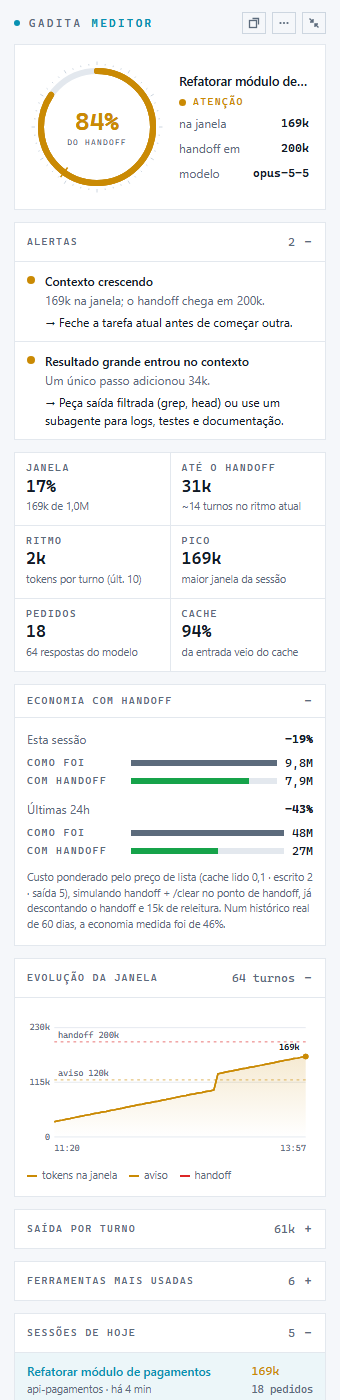
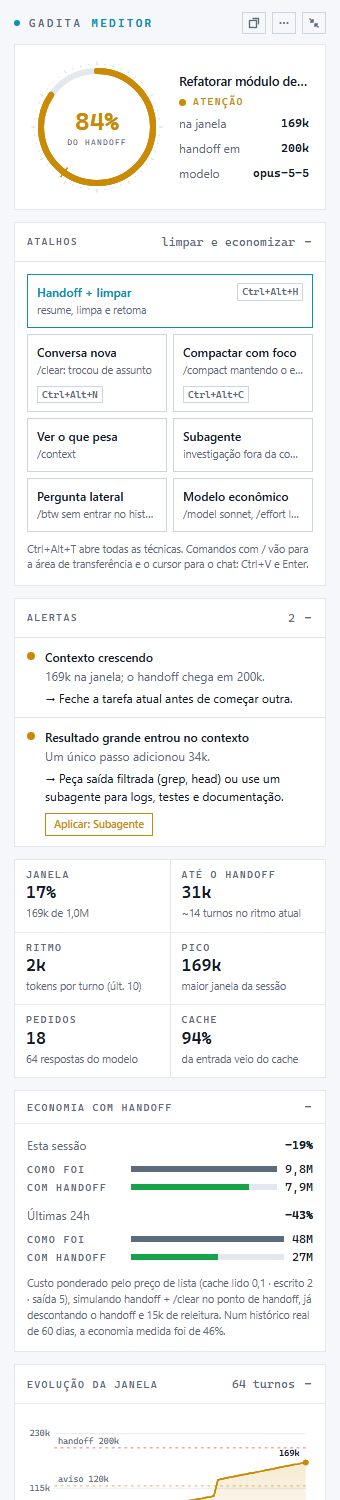
3.1.0: atalhos que aplicam as técnicas de economia
Ctrl+Alt+H faz handoff e abre a conversa nova sozinho quando o handoff
é salvo; Ctrl+Alt+N abre conversa nova (/clear); Ctrl+Alt+C compacta com
foco; Ctrl+Alt+T lista todas as técnicas. Painel ganha seção Atalhos e
botão Aplicar em cada alerta.

diff --git a/extension.js b/extension.js
@@ -170,7 +170,7 @@ function alertas(s, lim) {
   if (atual >= lim.handoff) {
     add('vermelho', 'handoff', 'Hora do handoff',
       `Cada mensagem reenvia ${k(atual)} de histórico. A qualidade também cai com a janela cheia.`,
-      'Deixe o Claude gerar o handoff e digite /clear.');
+      'Ctrl+Alt+H: handoff + limpar, e a sessão nova já retoma de onde parou.');
   } else if (atual >= lim.aviso) {
     add('amarelo', 'aviso', 'Contexto crescendo',
       `${k(atual)} na janela; o handoff chega em ${k(lim.handoff)}.`,
@@ -242,6 +242,12 @@ function alertas(s, lim) {
       'Para tarefas simples, /model sonnet ou /effort menor.');
   }
 
+  // Técnica que resolve cada alerta (botão "Aplicar" no painel e na notificação).
+  const APLICAR = {
+    handoff: 'handoffLimpar', 'cache-frio': 'handoffLimpar', pia: 'handoffLimpar', compactacao: 'handoffLimpar',
+    correcoes: 'conversaNova', 'saida-grande': 'subagente', exploracao: 'subagente', base: 'contexto', modelo: 'modelo',
+  };
+  for (const x of a) x.aplicar = APLICAR[x.id] || null;
   const ordem = { vermelho: 0, amarelo: 1, verde: 2 };
   return a.sort((x, y) => ordem[x.nivel] - ordem[y.nivel]);
 }
@@ -263,6 +269,7 @@ function config() {
     janela: c.get('janela') || 0, // 0 = automático
     notificar: c.get('notificar') !== false,
     abrirAoIniciar: c.get('abrirAoIniciar') || 'nada',
+    limparAposHandoff: c.get('limparAposHandoff') !== false,
   };
 }
 
@@ -425,6 +432,7 @@ class Paineis {
     } else if (m.tipo === 'flutuar') this.abrirAba(true);
     else if (m.tipo === 'aba') this.abrirAba(false);
     else if (m.tipo === 'menu') vscode.commands.executeCommand('gaditaMeditor.menu');
+    else if (m.tipo === 'tecnica' && TECNICAS[m.id]) TECNICAS[m.id].fn();
     else if (m.tipo === 'kit') vscode.env.openExternal(vscode.Uri.parse(`${REPO}#kit-de-handoff-opcional`));
   }
 }
@@ -432,8 +440,124 @@ class Paineis {
 const REPO = 'https://github.com/rodrigogadita/gadita-meditor';
 
 async function copiarHandoff() {
-  await vscode.env.clipboard.writeText('/handoff');
-  vscode.window.showInformationMessage('"/handoff" copiado. Cole no chat do Claude e depois digite /clear.');
+  await levarAoChat('/handoff');
+}
+
+// ---------- técnicas: atalhos que aplicam a limpeza ----------
+// Comandos da extensão oficial do Claude Code para VS Code (anthropic.claude-code).
+const CLAUDE_NOVA = 'claude-vscode.newConversation';
+const CLAUDE_FOCO = 'claude-vscode.focus';
+let comandosClaude = null;
+
+async function temComando(id) {
+  if (!comandosClaude) comandosClaude = new Set(await vscode.commands.getCommands(true));
+  return comandosClaude.has(id);
+}
+
+// Nenhuma extensão pode digitar no chat do Claude: copia o comando e põe o cursor na caixa de mensagem.
+async function levarAoChat(texto, dica) {
+  await vscode.env.clipboard.writeText(texto);
+  if (await temComando(CLAUDE_FOCO)) {
+    try { await vscode.commands.executeCommand(CLAUDE_FOCO); } catch { /* chat fechado */ }
+  }
+  vscode.window.setStatusBarMessage(`$(clippy) ${dica || `"${texto.trim()}" pronto: Ctrl+V e Enter no chat do Claude`}`, 10000);
+}
+
+// Equivale ao /clear: abre uma conversa limpa (a anterior continua salva e pode ser retomada).
+async function conversaNova() {
+  if (await temComando(CLAUDE_NOVA)) {
+    await vscode.commands.executeCommand(CLAUDE_NOVA);
+    vscode.window.setStatusBarMessage('$(check) Conversa nova aberta. A anterior continua salva.', 8000);
+    return true;
+  }
+  await levarAoChat('/clear', '"/clear" pronto: cole no Claude Code e envie');
+  return false;
+}
+
+function handoffNovo(desde) {
+  let maisNovo = null, mt = 0;
+  try {
+    for (const n of fs.readdirSync(HANDOFFS)) {
+      if (!n.endsWith('.md') || n.endsWith('.usado.md')) continue;
+      const m = fs.statSync(path.join(HANDOFFS, n)).mtimeMs;
+      if (m > desde - 1000 && m > mt) { mt = m; maisNovo = path.join(HANDOFFS, n); }
+    }
+  } catch { /* pasta ainda não existe */ }
+  return maisNovo;
+}
+
+// Handoff + limpar: pede o handoff; quando o arquivo aparece e a resposta termina, abre a conversa nova.
+let esperaHandoff = null;
+async function handoffLimpar() {
+  const inicio = Date.now();
+  const s = mon.corrente();
+  await levarAoChat('/handoff', 'Ctrl+V e Enter no chat. Quando o handoff for salvo, eu abro a conversa nova.');
+  if (esperaHandoff) clearInterval(esperaHandoff);
+  let achado = null;
+  esperaHandoff = setInterval(async () => {
+    if (Date.now() - inicio > 15 * 60000) { clearInterval(esperaHandoff); esperaHandoff = null; return; }
+    achado = achado || handoffNovo(inicio);
+    if (!achado) return;
+    // Espera a resposta do Claude terminar (registro da sessão parado há 5s) antes de limpar.
+    if (s) {
+      try { if (Date.now() - fs.statSync(s.arquivo).mtimeMs < 5000) return; } catch { /* segue */ }
+    }
+    clearInterval(esperaHandoff); esperaHandoff = null;
+    const kit = fs.existsSync(path.join(GUARDA, 'hook.py'));
+    const retomar = async () => {
+      const limpou = await conversaNova();
+      if (!kit && limpou) {
+        await levarAoChat(`Leia ${achado.replace(/\\/g, '/')} e continue do próximo passo.`,
+          'Pedido de retomada pronto: Ctrl+V e Enter na conversa nova.');
+      }
+    };
+    if (config().limparAposHandoff) {
+      await retomar();
+      vscode.window.showInformationMessage(`Handoff salvo (${path.basename(achado)}) e conversa nova aberta.${kit ? ' O contexto volta sozinho.' : ''}`);
+    } else {
+      const r = await vscode.window.showInformationMessage(`Handoff salvo: ${path.basename(achado)}.`, 'Abrir conversa nova', 'Ver handoff');
+      if (r === 'Abrir conversa nova') await retomar();
+      if (r === 'Ver handoff') vscode.window.showTextDocument(vscode.Uri.file(achado));
+    }
+  }, 1500);
+}
+
+async function compactarComFoco() {
+  const foco = await vscode.window.showInputBox({
+    title: 'Compactar com foco',
+    prompt: 'O que precisa sobreviver ao resumo? (compactar lê a conversa inteira: prefira handoff + limpar quando for recomeçar)',
+    placeHolder: 'ex.: decisões do módulo de pagamentos, arquivos alterados e testes pendentes',
+  });
+  if (foco === undefined) return;
+  await levarAoChat(`/compact ${foco}`.trim());
+}
+
+async function modeloEconomico() {
+  const r = await vscode.window.showQuickPick([
+    { label: '/model sonnet', description: 'a maior parte do código, custa menos que o Opus' },
+    { label: '/model haiku', description: 'tarefas bem simples e repetitivas' },
+    { label: '/effort low', description: 'menos raciocínio no mesmo modelo' },
+    { label: '/model opus', description: 'voltar ao Opus para arquitetura e problemas difíceis' },
+  ], { title: 'Modelo e esforço sob medida' });
+  if (r) await levarAoChat(r.label);
+}
+
+const TECNICAS = {
+  handoffLimpar: { fn: handoffLimpar, icone: 'sparkle', nome: 'Handoff + limpar', tecla: 'Ctrl+Alt+H', desc: 'resume, limpa e retoma na conversa nova' },
+  conversaNova: { fn: conversaNova, icone: 'clear-all', nome: 'Conversa nova (/clear)', tecla: 'Ctrl+Alt+N', desc: 'trocou de assunto: comece limpo' },
+  compactar: { fn: compactarComFoco, icone: 'fold', nome: 'Compactar com foco', tecla: 'Ctrl+Alt+C', desc: 'resume mantendo só o que você escolher' },
+  contexto: { fn: () => levarAoChat('/context'), icone: 'pie-chart', nome: 'Ver o que pesa (/context)', tecla: '', desc: 'sistema, memória, ferramentas e conversa' },
+  subagente: { fn: () => levarAoChat('Use um subagente para investigar: '), icone: 'hubot', nome: 'Investigar com subagente', tecla: '', desc: 'o volume fica fora da conversa principal' },
+  lateral: { fn: () => levarAoChat('/btw '), icone: 'comment', nome: 'Pergunta lateral (/btw)', tecla: '', desc: 'a resposta não entra no histórico' },
+  modelo: { fn: modeloEconomico, icone: 'dashboard', nome: 'Modelo econômico', tecla: '', desc: '/model sonnet, /effort low' },
+};
+
+async function tecnicas() {
+  const itens = Object.entries(TECNICAS).map(([id, t]) => ({
+    id, label: `$(${t.icone}) ${t.nome}`, description: t.tecla, detail: t.desc,
+  }));
+  const r = await vscode.window.showQuickPick(itens, { title: 'Gadita Meditor · técnicas que economizam', placeHolder: 'O que aplicar agora?' });
+  if (r) TECNICAS[r.id].fn();
 }
 
 let mon, paineis, barra, atualizarTudo;
@@ -461,8 +585,10 @@ function atualizarBarra() {
     const chave = `${s.id}:${a.id}`;
     if (mon.notificados.has(chave)) continue;
     mon.notificados.add(chave);
-    vscode.window.showWarningMessage(`Gadita Meditor · ${a.titulo}. ${a.acao}`, 'Copiar /handoff', 'Abrir flutuante').then((r) => {
-      if (r === 'Copiar /handoff') copiarHandoff();
+    const t = a.aplicar && TECNICAS[a.aplicar];
+    const botoes = t ? [t.nome, 'Abrir flutuante'] : ['Abrir flutuante'];
+    vscode.window.showWarningMessage(`Gadita Meditor · ${a.titulo}. ${a.acao}`, ...botoes).then((r) => {
+      if (t && r === t.nome) t.fn();
       if (r === 'Abrir flutuante') paineis.abrirAba(true);
     });
   }
@@ -473,8 +599,9 @@ async function menu() {
     { label: '$(multiple-windows) Janela flutuante', description: 'sempre por cima, arraste para onde quiser', id: 'flutuar' },
     { label: '$(split-horizontal) Abrir como aba', description: 'arraste a aba para qualquer lado do editor', id: 'aba' },
     { label: '$(layout-sidebar-left) Barra lateral', description: 'arraste o ícone para a direita para fixar lá', id: 'lateral' },
+    { label: 'técnicas', kind: vscode.QuickPickItemKind.Separator },
+    ...Object.entries(TECNICAS).map(([id, t]) => ({ label: `$(${t.icone}) ${t.nome}`, description: t.tecla, id: `tec:${id}` })),
     { label: '', kind: vscode.QuickPickItemKind.Separator },
-    { label: '$(copy) Copiar /handoff', id: 'handoff' },
     { label: '$(folder-opened) Pasta de handoffs', id: 'pasta' },
     { label: '$(gear) Configurações', id: 'config' },
   ];
@@ -483,7 +610,7 @@ async function menu() {
   if (r.id === 'flutuar') paineis.abrirAba(true);
   else if (r.id === 'aba') paineis.abrirAba(false);
   else if (r.id === 'lateral') vscode.commands.executeCommand('workbench.view.extension.gaditaMeditor');
-  else if (r.id === 'handoff') copiarHandoff();
+  else if (r.id.startsWith('tec:')) TECNICAS[r.id.slice(4)].fn();
   else if (r.id === 'pasta') vscode.commands.executeCommand('gaditaMeditor.pastaHandoffs');
   else if (r.id === 'config') vscode.commands.executeCommand('workbench.action.openSettings', 'gaditaMeditor');
 }
@@ -505,6 +632,14 @@ function activate(ctx) {
     vscode.commands.registerCommand('gaditaMeditor.flutuar', () => paineis.abrirAba(true)),
     vscode.commands.registerCommand('gaditaMeditor.aba', () => paineis.abrirAba(false)),
     vscode.commands.registerCommand('gaditaMeditor.copiarHandoff', copiarHandoff),
+    vscode.commands.registerCommand('gaditaMeditor.tecnicas', tecnicas),
+    vscode.commands.registerCommand('gaditaMeditor.handoffLimpar', handoffLimpar),
+    vscode.commands.registerCommand('gaditaMeditor.conversaNova', conversaNova),
+    vscode.commands.registerCommand('gaditaMeditor.compactar', compactarComFoco),
+    vscode.commands.registerCommand('gaditaMeditor.contexto', TECNICAS.contexto.fn),
+    vscode.commands.registerCommand('gaditaMeditor.subagente', TECNICAS.subagente.fn),
+    vscode.commands.registerCommand('gaditaMeditor.lateral', TECNICAS.lateral.fn),
+    vscode.commands.registerCommand('gaditaMeditor.modelo', modeloEconomico),
     vscode.commands.registerCommand('gaditaMeditor.atualizar', () => { mon.varrer(); atualizarTudo(); }),
     vscode.commands.registerCommand('gaditaMeditor.pastaHandoffs', () => {
       fs.mkdirSync(HANDOFFS, { recursive: true });

diff --git a/media/painel.js b/media/painel.js
@@ -2,7 +2,7 @@
   const vscode = acquireVsCodeApi();
   const salvo = vscode.getState() || {};
   let compacto = !!salvo.compacto;
-  const abertos = Object.assign({ alertas: true, economia: true, evolucao: true, turnos: false, ferramentas: false, sessoes: true, acoes: true, dicas: false }, salvo.abertos);
+  const abertos = Object.assign({ alertas: true, economia: true, evolucao: true, turnos: false, ferramentas: false, sessoes: true, acoes: true, dicas: false, atalhos: true }, salvo.abertos);
   let dados = null;
 
   const $ = (s) => document.querySelector(s);
@@ -113,7 +113,8 @@
         <div class="d">Nenhum sinal de desperdício pelas recomendações da Anthropic.</div></div></div>`;
     }
     return lista.map((a) => `<div class="alerta neon-${a.nivel}"><span class="ponto"></span><div>
-      <div class="t">${esc(a.titulo)}</div><div class="d">${esc(a.detalhe)}</div><div class="a">${esc(a.acao)}</div></div></div>`).join('');
+      <div class="t">${esc(a.titulo)}</div><div class="d">${esc(a.detalhe)}</div><div class="a">${esc(a.acao)}</div>
+      ${a.aplicar && ATALHOS[a.aplicar] ? `<button class="aplicar" data-tec="${a.aplicar}">Aplicar: ${ATALHOS[a.aplicar][0]}</button>` : ''}</div></div>`).join('');
   }
 
   function economiaHtml(eco, dia) {
@@ -129,6 +130,21 @@
     return `<div class="economia">${bloco('Esta sessão', eco)}${bloco('Últimas 24h', dia)}
       <div class="eco-nota">Custo ponderado pelo preço de lista (cache lido 0,1 · escrito 2 · saída 5), simulando handoff + /clear no ponto de handoff, já descontando o handoff e 15k de releitura. Num histórico real de 60 dias, a economia medida foi de 46%.</div></div>`;
   }
+
+  // Atalhos que aplicam as técnicas (mesmos ids de TECNICAS no extension.js).
+  const ATALHOS = {
+    handoffLimpar: ['Handoff + limpar', 'Ctrl+Alt+H', 'resume, limpa e retoma'],
+    conversaNova: ['Conversa nova', 'Ctrl+Alt+N', '/clear: trocou de assunto'],
+    compactar: ['Compactar com foco', 'Ctrl+Alt+C', '/compact mantendo o essencial'],
+    contexto: ['Ver o que pesa', '', '/context'],
+    subagente: ['Subagente', '', 'investigação fora da conversa'],
+    lateral: ['Pergunta lateral', '', '/btw sem entrar no histórico'],
+    modelo: ['Modelo econômico', '', '/model sonnet, /effort low'],
+  };
+  const atalhosHtml = () => `<div class="atalhos">${Object.entries(ATALHOS).map(([id, [nome, tecla, desc]], i) =>
+    `<button class="atalho ${i === 0 ? 'principal' : ''}" data-tec="${id}" title="${desc}">
+      <span class="nome">${nome}</span><span class="desc">${desc}</span>${tecla ? `<kbd>${tecla}</kbd>` : ''}</button>`).join('')}
+    <p class="dica">Ctrl+Alt+T abre todas as técnicas. Comandos com / vão para a área de transferência e o cursor para o chat: Ctrl+V e Enter.</p></div>`;
 
   // Recomendações oficiais (code.claude.com/docs/en/costs e /best-practices), em ordem de impacto.
   const DICAS = [
@@ -167,7 +183,8 @@
       alvo.innerHTML = `<div class="bloco compacto">${anel(s.atual, lim, 56)}
         <div class="dados"><span class="grande num">${fmt(s.atual)} <span style="color:var(--suave);font-size:11px">/ ${fmt(lim.handoff)}</span></span>
         <span class="estado neon-${principal ? principal.nivel : n.cor}">${esc(principal ? principal.titulo : n.nome)}</span>
-        <span class="sub">${esc(s.titulo)}</span></div></div>`;
+        <span class="sub">${esc(s.titulo)}</span></div>
+        <button class="atalho principal mini-atalho" data-tec="handoffLimpar" title="Handoff + limpar (Ctrl+Alt+H)"><span class="nome">Handoff + limpar</span><kbd>Ctrl+Alt+H</kbd></button></div>`;
       return;
     }
 
@@ -196,6 +213,7 @@
           <span class="linha-dado"><span>modelo</span><b class="num">${esc((s.modelo || '—').replace('claude-', ''))}</b></span>
         </div>
       </section>
+      ${secao('atalhos', 'Atalhos', 'limpar e economizar', atalhosHtml())}
       ${secao('alertas', 'Alertas', qtdAlertas || '', `<div class="alertas">${alertasHtml(s.alertas)}</div>`, true)}
       <section class="kpis">${kpis}</section>
       ${secao('economia', 'Economia com handoff', '', economiaHtml(s.economia, dados.economiaDia), true)}
@@ -204,7 +222,6 @@
       ${secao('ferramentas', 'Ferramentas mais usadas', s.ferramentas.length || '', ferr)}
       ${secao('sessoes', 'Sessões de hoje', dados.sessoes.length, sessoesHtml(dados), true)}
       ${secao('acoes', 'Ações', '', `<div class="acoes">
-        <button class="botao principal" data-cmd="copiarHandoff">Copiar /handoff</button>
         <button class="botao" data-cmd="flutuar">Janela flutuante</button>
         <button class="botao" data-cmd="aba">Abrir como aba</button>
         <button class="botao" data-cmd="pastaHandoffs">Pasta de handoffs</button>
@@ -221,6 +238,7 @@
     if (b.id === 'modo') { compacto = !compacto; salvar(); render(); }
     else if (b.id === 'flutuar') vscode.postMessage({ tipo: 'flutuar' });
     else if (b.id === 'menu') vscode.postMessage({ tipo: 'menu' });
+    else if (b.dataset.tec) vscode.postMessage({ tipo: 'tecnica', id: b.dataset.tec });
     else if (b.dataset.id) vscode.postMessage({ tipo: 'fixar', id: b.dataset.id });
     else if (b.dataset.cmd) vscode.postMessage({ tipo: b.dataset.cmd });
   });

diff --git a/media/painel.css b/media/painel.css
@@ -135,3 +135,21 @@ details.bloco[open] > summary { border-bottom: 1px solid var(--linha); }
 .dica-item .dica-n { color: var(--acento); font-size: 10.5px; padding-top: 1px; }
 .dica-item .t { font-weight: 600; }
 .dica-item .d { color: var(--suave); }
+
+/* atalhos */
+.atalhos { display: grid; grid-template-columns: repeat(2, minmax(0, 1fr)); gap: 6px; }
+.atalho { display: grid; grid-template-columns: minmax(0, 1fr) auto; gap: 2px 8px; align-items: center; text-align: left; background: transparent; border: 1px solid var(--linha-forte); padding: 8px 9px; }
+.atalho:hover { border-color: var(--acento); }
+.atalho:hover .nome { color: var(--acento); }
+.atalho .nome { font-weight: 600; white-space: nowrap; overflow: hidden; text-overflow: ellipsis; }
+.atalho .desc { grid-column: 1 / -1; color: var(--suave); font-size: 10.5px; white-space: nowrap; overflow: hidden; text-overflow: ellipsis; }
+.atalho kbd { font: 500 9.5px/1 var(--mono); color: var(--suave); border: 1px solid var(--linha-forte); padding: 3px 4px; }
+.atalho.principal { grid-column: 1 / -1; border-color: var(--acento); }
+.atalho.principal .nome { color: var(--acento); text-shadow: 0 0 calc(8px * var(--brilho)) color-mix(in srgb, var(--acento) 55%, transparent); }
+.atalhos .dica { grid-column: 1 / -1; }
+.compacto .mini-atalho { grid-column: 1 / -1; padding: 6px 9px; }
+.aplicar { margin-top: 8px; background: transparent; border: 1px solid currentColor; color: inherit; padding: 4px 8px; font: 600 10.5px/1.2 var(--sans); }
+.aplicar:hover { background: color-mix(in srgb, currentColor 12%, transparent); }
+.atalho.principal kbd { grid-row: 1; grid-column: 2; }
+.atalho:not(.principal) { grid-template-columns: minmax(0, 1fr); }
+.atalho:not(.principal) kbd { justify-self: start; margin-top: 5px; }

diff --git a/ferramentas/previa.js b/ferramentas/previa.js
@@ -31,8 +31,8 @@ const dados = {
     compactacoes: [],
     ferramentas: [['Read', 58], ['Edit', 31], ['Bash', 24], ['Grep', 19], ['Write', 7], ['Agent', 3]],
     alertas: [
-      { nivel: 'amarelo', id: 'aviso', titulo: 'Contexto crescendo', detalhe: `${Math.round(atual / 1000)}k na janela; o handoff chega em 200k.`, acao: 'Feche a tarefa atual antes de começar outra.' },
-      { nivel: 'amarelo', id: 'saida-grande', titulo: 'Resultado grande entrou no contexto', detalhe: 'Um único passo adicionou 34k.', acao: 'Peça saída filtrada (grep, head) ou use um subagente para logs, testes e documentação.' },
+      { nivel: 'amarelo', id: 'aviso', titulo: 'Contexto crescendo', detalhe: `${Math.round(atual / 1000)}k na janela; o handoff chega em 200k.`, acao: 'Feche a tarefa atual antes de começar outra.', aplicar: null },
+      { nivel: 'amarelo', id: 'saida-grande', titulo: 'Resultado grande entrou no contexto', detalhe: 'Um único passo adicionou 34k.', acao: 'Peça saída filtrada (grep, head) ou use um subagente para logs, testes e documentação.', aplicar: 'subagente' },
     ],
     economia: { real: 9.8e6, sim: 7.9e6 },
   },

diff --git a/README.md b/README.md
@@ -51,7 +51,7 @@ A barra de status do terminal mostra isso, mas **não aparece na extensão do Cl
 Ou pelo terminal:
 
 ```bash
-code --install-extension gadita-meditor-3.0.0.vsix
+code --install-extension gadita-meditor-3.1.0.vsix
 ```
 
 ### Opção 2: a partir do código
@@ -69,13 +69,27 @@ Requisitos: VS Code 1.90+ e o Claude Code já usado nesta máquina (a extensão 
 
 | Ação | Como |
 |---|---|
-| Abrir o menu (flutuante, aba, lateral) | Clique na barra de status ou no botão `⋯` do painel |
+| Abrir o menu (flutuante, aba, lateral, técnicas) | Clique na barra de status ou no botão `⋯` do painel |
 | Janela flutuante | `Ctrl+Alt+G` (`Cmd+Alt+G` no Mac) ou botão `⧉` |
 | Fixar à direita | Arraste o ícone do Gadita para a barra lateral secundária |
 | Encolher / expandir | Botão `⤡` no topo do painel |
 | Abrir sozinho ao iniciar | Configuração `gaditaMeditor.abrirAoIniciar` = `flutuante` ou `aba` |
 
 A janela flutuante usa as janelas auxiliares do VS Code (solta, compacta e sempre por cima). A aba volta sozinha quando você recarrega o VS Code.
+
+## Atalhos que aplicam as técnicas
+
+| Atalho | Técnica | O que acontece |
+|---|---|---|
+| `Ctrl+Alt+H` | **Handoff + limpar** | Prepara o `/handoff` no chat; quando o Claude salva o handoff e termina a resposta, abre sozinho uma conversa nova, que já retoma de onde parou |
+| `Ctrl+Alt+N` | **Conversa nova** | Equivale ao `/clear`: abre uma conversa limpa (a anterior continua salva) |
+| `Ctrl+Alt+C` | **Compactar com foco** | Pergunta o que deve sobreviver e monta o `/compact <foco>` |
+| `Ctrl+Alt+T` | **Todas as técnicas** | Menu com as anteriores e mais: `/context`, subagente, `/btw`, modelo econômico |
+| `Ctrl+Alt+G` | Janela flutuante | Painel solto e sempre por cima |
+
+Os mesmos atalhos aparecem como botões no painel, e cada alerta tem um botão **Aplicar** com a técnica que o resolve (por exemplo, "Hora do handoff" › Handoff + limpar).
+
+Como funciona: a conversa nova usa o comando da própria extensão do Claude Code (`claude-vscode.newConversation`). Nenhuma extensão pode digitar no chat do Claude, então os comandos com `/` vão para a área de transferência e o cursor vai para a caixa de mensagem: é só `Ctrl+V` e `Enter`. No Mac, troque `Ctrl` por `Cmd`.
 
 ## Alertas
 
@@ -161,6 +175,7 @@ Método: refaz cada sessão turno a turno e simula o recomeço no ponto de hando
 | `gaditaMeditor.janela` | `0` | Tamanho da janela. `0` = automático (1M se a conta já passou de 200k, senão 200k) |
 | `gaditaMeditor.abrirAoIniciar` | `nada` | `flutuante` ou `aba` para abrir sozinho |
 | `gaditaMeditor.notificar` | `true` | Notificação nos alertas vermelhos |
+| `gaditaMeditor.limparAposHandoff` | `true` | No Handoff + limpar, abrir a conversa nova sozinho (ou perguntar antes, se `false`) |
 
 ## Privacidade
 

diff --git a/CHANGELOG.md b/CHANGELOG.md
@@ -1,5 +1,10 @@
 # Histórico
 
+## 3.1.0
+- Atalhos que aplicam as técnicas: `Ctrl+Alt+H` handoff + limpar (abre a conversa nova sozinho quando o handoff é salvo), `Ctrl+Alt+N` conversa nova, `Ctrl+Alt+C` compactar com foco, `Ctrl+Alt+T` todas as técnicas.
+- Seção Atalhos no painel e botão Aplicar em cada alerta; atalho rápido no modo encolhido.
+- Notificações dos alertas vermelhos com a técnica que resolve.
+
 ## 3.0.0
 - Primeira versão pública.
 - Menu na barra de status: janela flutuante, aba ou barra lateral. Atalho `Ctrl+Alt+G`.
